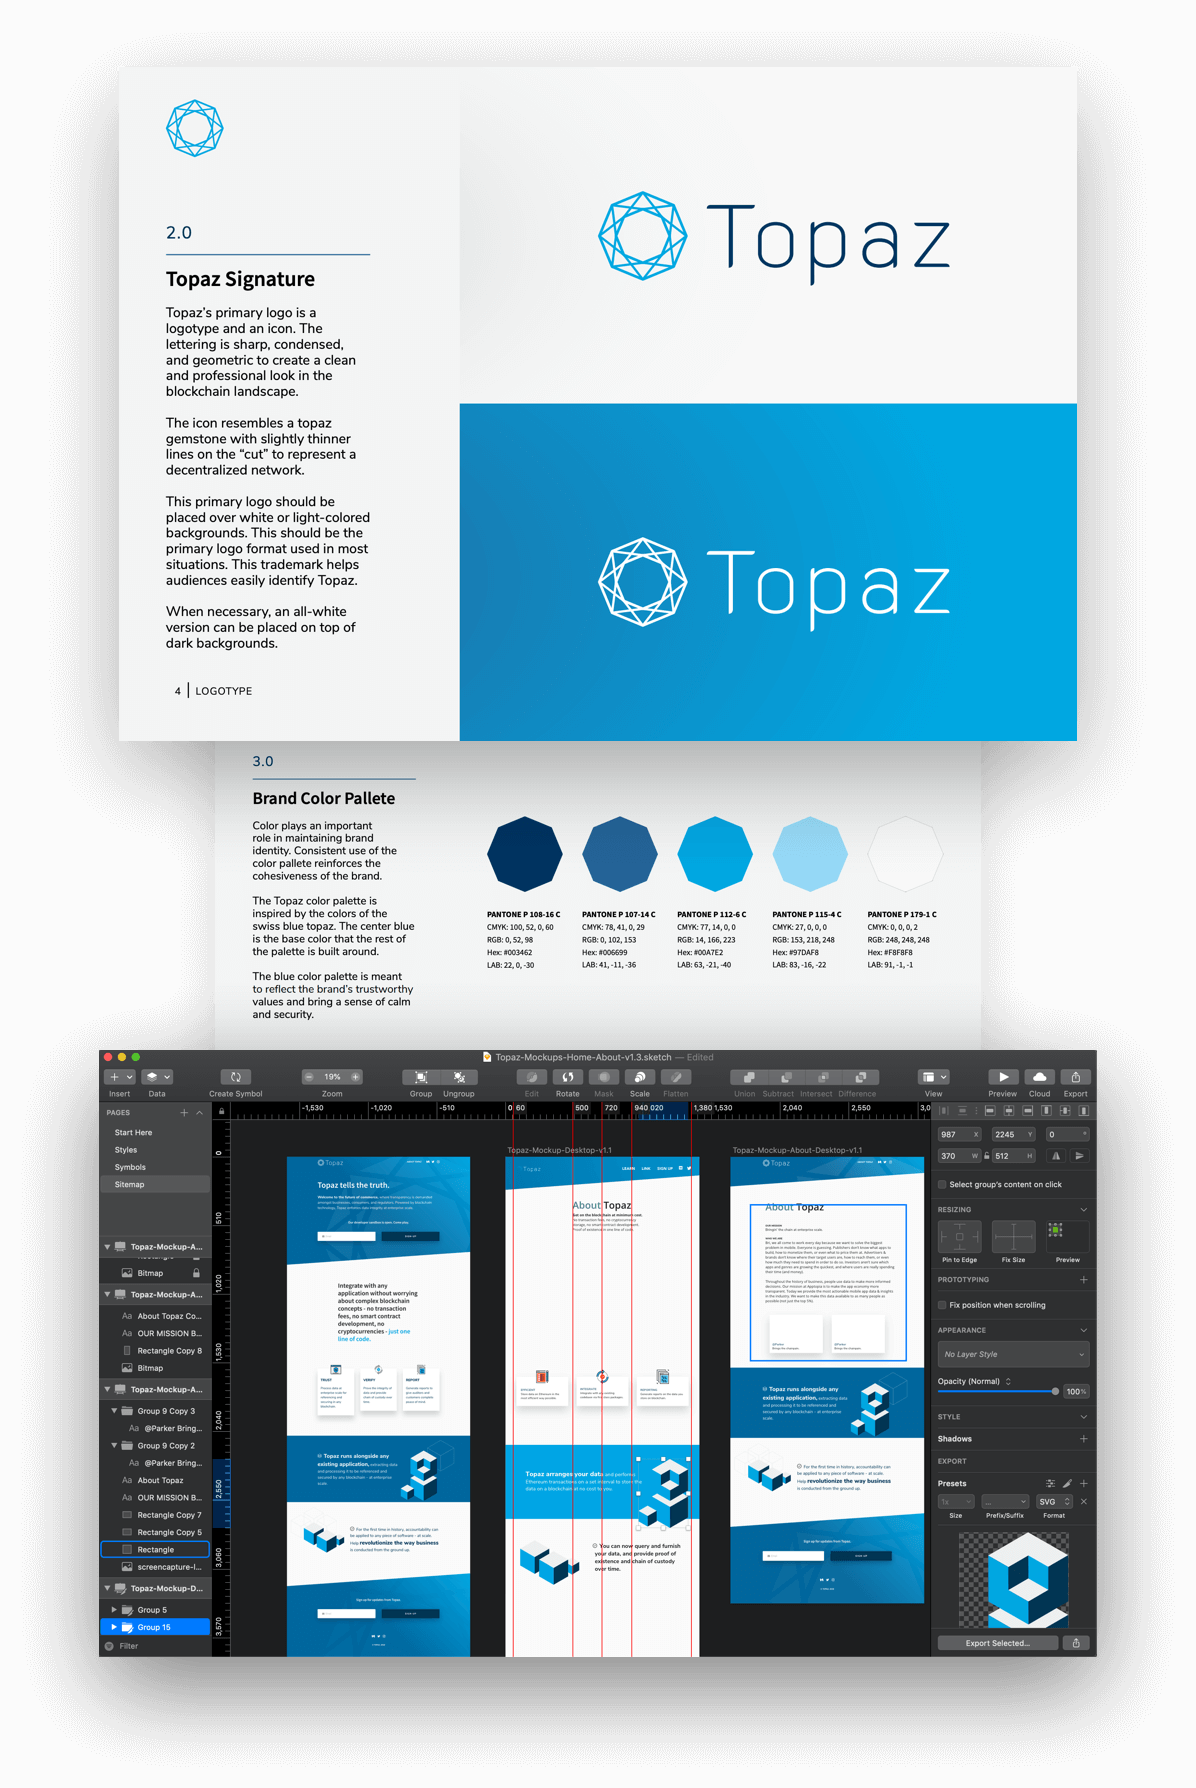
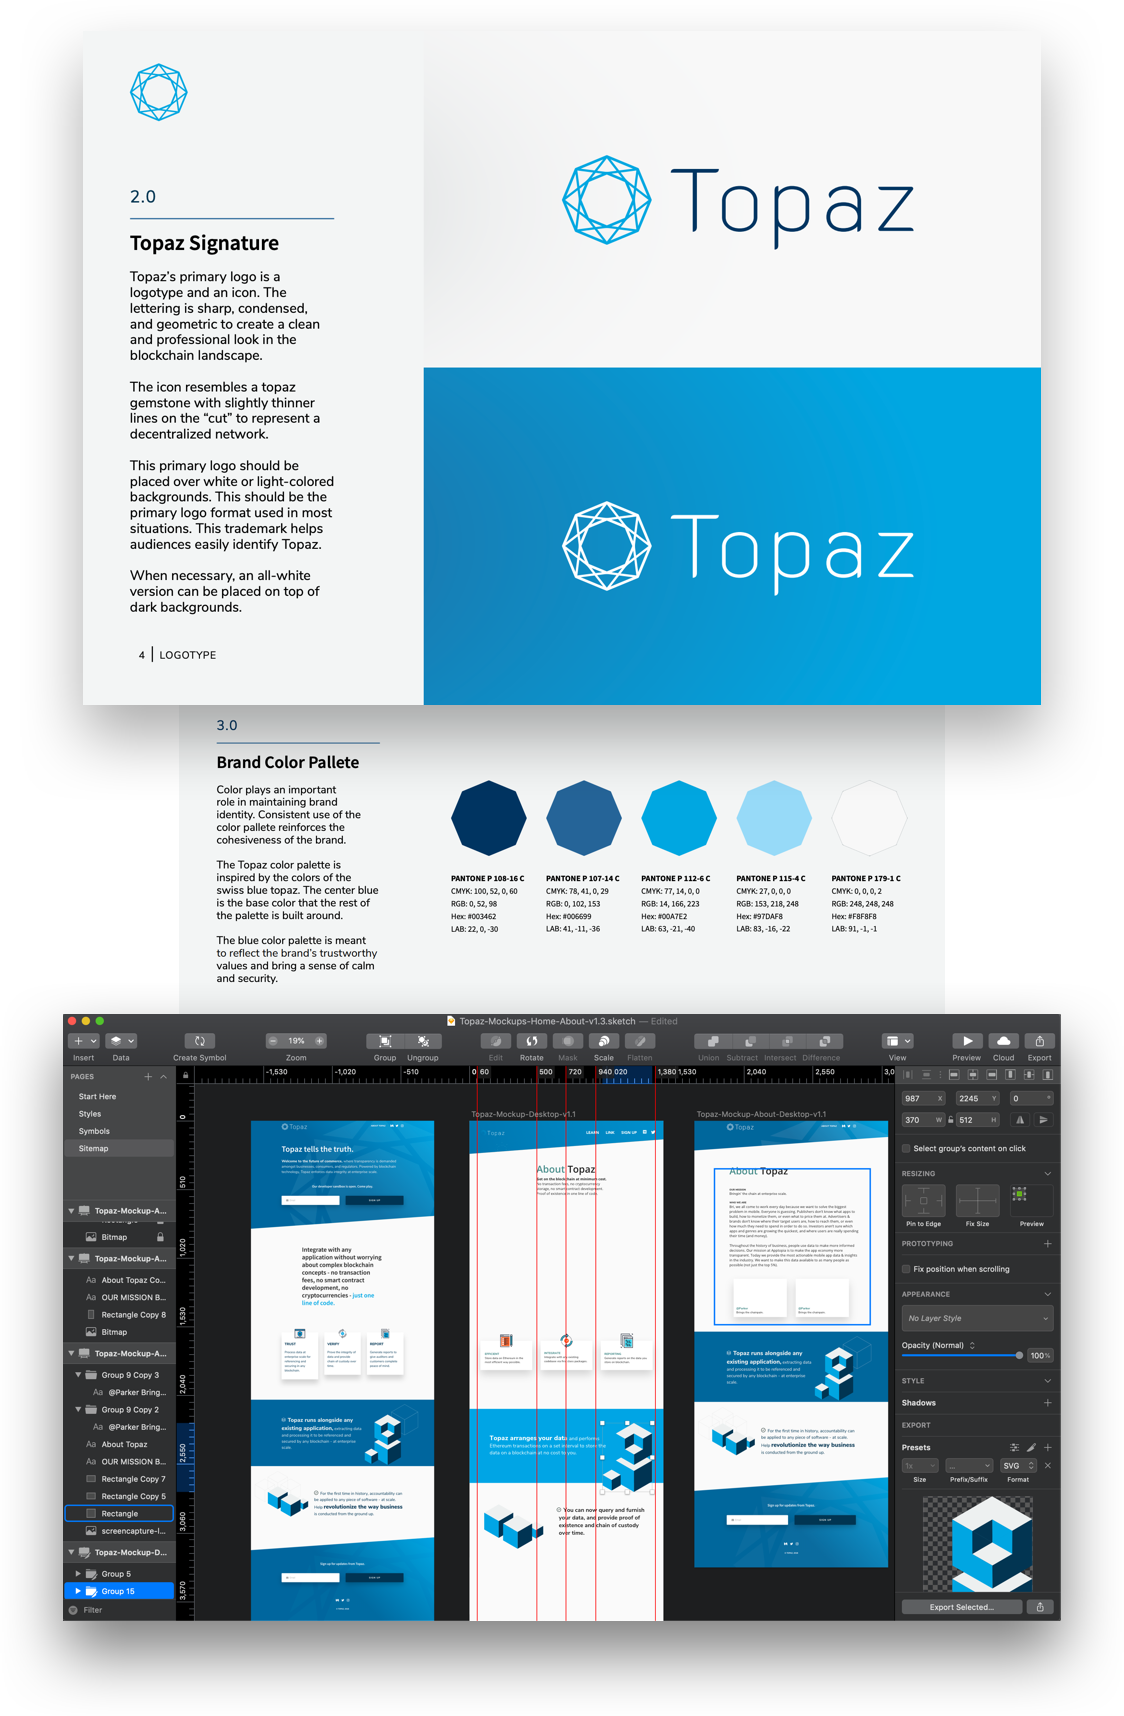
updates to images

diff --git a/src/pages/freshtix.js b/src/pages/freshtix.js
@@ -389,14 +389,14 @@ query {
     }
 imageScreenSketch: file(relativePath: { eq: "screens-sketch-topaz.png" }) {
   childImageSharp {
-    fluid(maxWidth: 900) {
+    fluid(maxWidth: 600) {
       ...GatsbyImageSharpFluid
       }
     }
   }
 imageShotttFreshtix: file(relativePath: { eq: "shottt-freshtix.png" }) {
   childImageSharp {
-    fluid(maxWidth: 900) {
+    fluid(maxWidth: 600) {
       ...GatsbyImageSharpFluid
       }
     }
